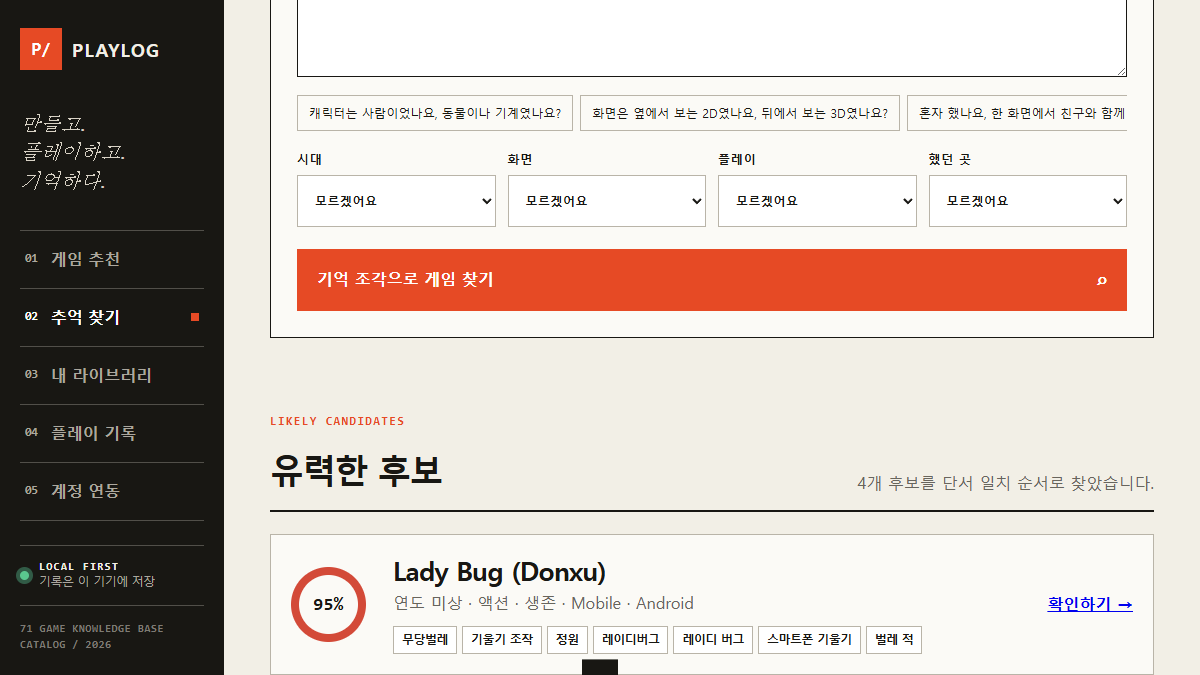
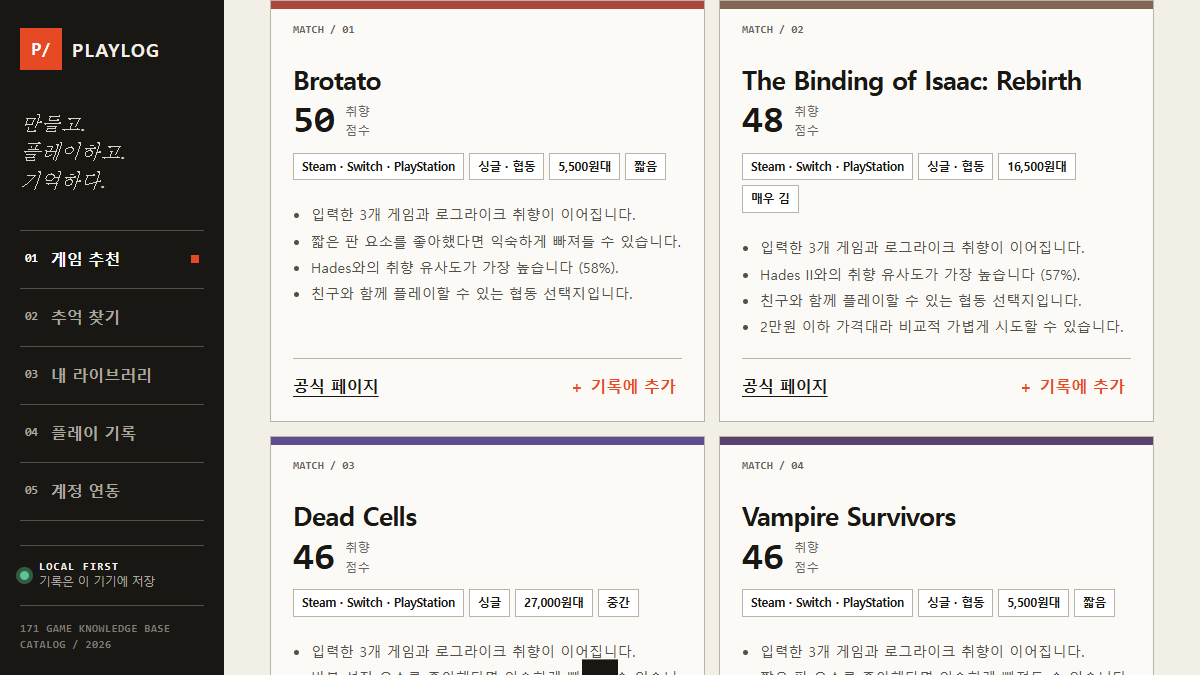
feat: showcase PLAYLOG 171 game catalog

diff --git a/projects.js b/projects.js
@@ -69,11 +69,11 @@
       image: 'assets/projects/playlog.png',
       kind: 'web',
       platform: 'WEB APP · GAME LIFELOG + DISCOVERY',
-      summary: '좋아한 게임을 최대 10개까지 제목·한글/영문 별칭으로 검색해 추천 이유가 보이는 새 게임 8개를 찾고, 레이디버그 같은 기억 속 게임을 단서로 유추하며, 목록에 없는 게임도 직접 만들어 플레이 시간·통계·공유에 보존하는 로컬 우선 게임 라이프로그.',
-      impact: '71 Game DB · 10 Seeds + Custom Entry · 17/17 Tests',
-      role: '제품 기획 · 게임 지식 DB · 추천/추억 검색 엔진 · 검색/직접 추가 UX · 개발 · 배포',
+      summary: '실제 게임 171개와 신규 100개의 한글 통용 별칭을 바탕으로 최대 10개 취향을 설명 가능한 8개 추천으로 연결하고, 추억 단서 검색·사용자 게임 직접 추가·플레이 통계·공유를 제공하는 로컬 우선 게임 라이프로그. JSON 단일 원본과 검증 CLI로 개발자가 카탈로그를 쉽게 확장할 수 있다.',
+      impact: '171 Game DB · 100 Added · 10 Seeds + Custom Entry · 23/23 Tests',
+      role: '제품 기획 · 171개 게임 지식 DB 큐레이션 · 추천/추억 검색 엔진 · 카탈로그 CLI/검증 파이프라인 · 개발 · 배포',
       collaboration: true,
-      tags: ['Game Recommendation', 'Memory Finder', 'Custom Game Entry', 'Local First']
+      tags: ['Game Recommendation', 'Memory Finder', 'Catalog Pipeline', 'Custom Game Entry', 'Local First']
     },
     {
       id: 'ladybug-garden',

diff --git a/tests/portfolio.test.js b/tests/portfolio.test.js
@@ -39,10 +39,11 @@ const playlog = projects.find(p => p.id === 'playlog');
 assert(playlog, 'PLAYLOG 프로젝트가 필요합니다.');
 assert.strictEqual(playlog.url, 'https://woo12345678.github.io/playlog/');
 assert.strictEqual(playlog.image, 'assets/projects/playlog.png');
-assert(/71 Game DB/.test(playlog.impact), 'PLAYLOG의 검증된 게임 지식 DB 규모를 표시해야 합니다.');
+assert(/171 Game DB/.test(playlog.impact), 'PLAYLOG의 검증된 게임 지식 DB 규모를 표시해야 합니다.');
+assert(/100 Added/.test(playlog.impact), 'PLAYLOG에 추가한 실제 게임 수를 표시해야 합니다.');
 assert(/10 Seeds/.test(playlog.impact), 'PLAYLOG의 다중 게임 입력 범위를 표시해야 합니다.');
 assert(/Custom Entry/.test(playlog.impact), 'PLAYLOG의 목록에 없는 게임 직접 추가를 표시해야 합니다.');
-assert(/17\/17/.test(playlog.impact), 'PLAYLOG의 통과 테스트 수를 표시해야 합니다.');
+assert(/23\/23/.test(playlog.impact), 'PLAYLOG의 통과 테스트 수를 표시해야 합니다.');
 assert(playlog.tags.includes('Memory Finder'), 'PLAYLOG 추억 게임 찾기를 표시해야 합니다.');
 assert(playlog.tags.includes('Custom Game Entry'), 'PLAYLOG 사용자 게임 추가 기능을 표시해야 합니다.');
 const ladybugGarden = projects.find(p => p.id === 'ladybug-garden');
